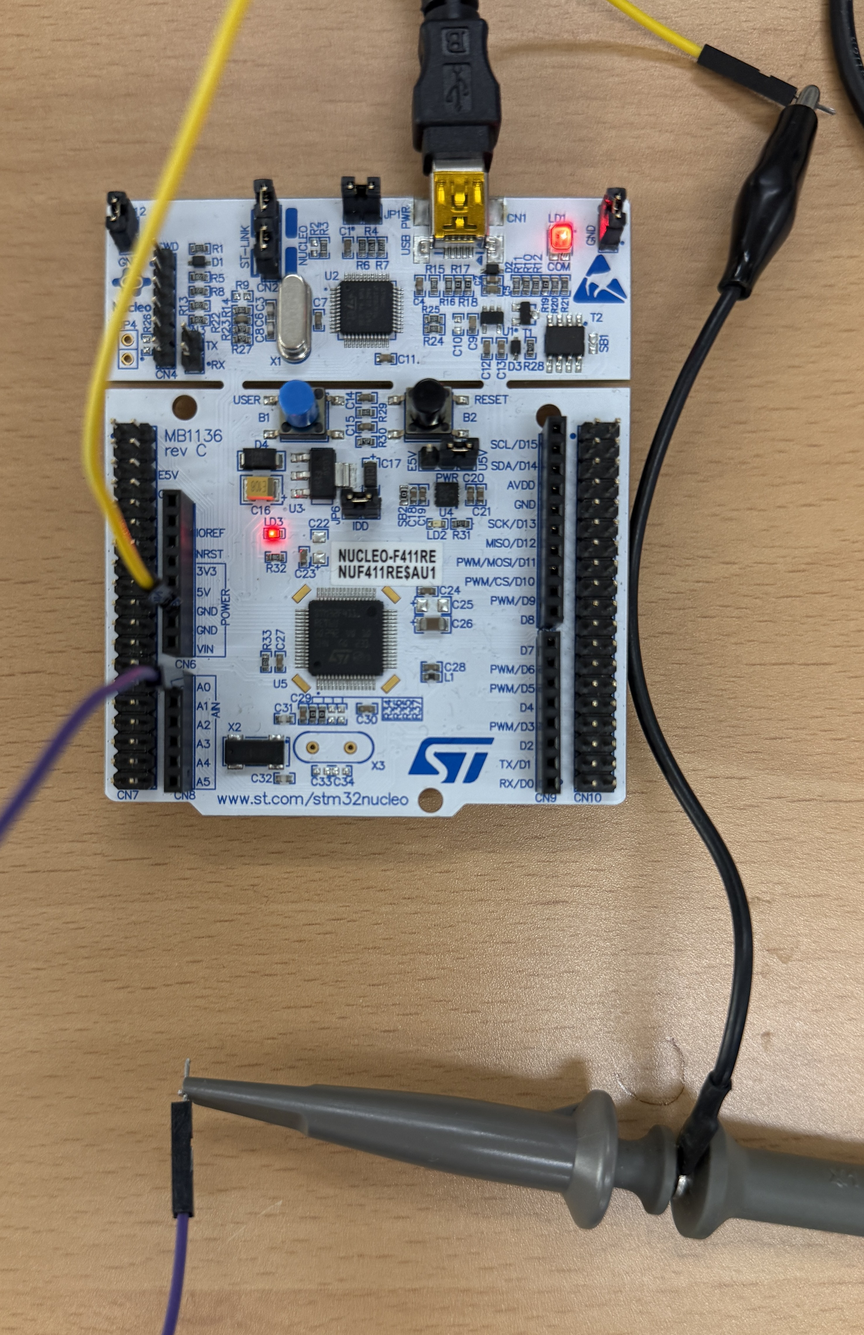
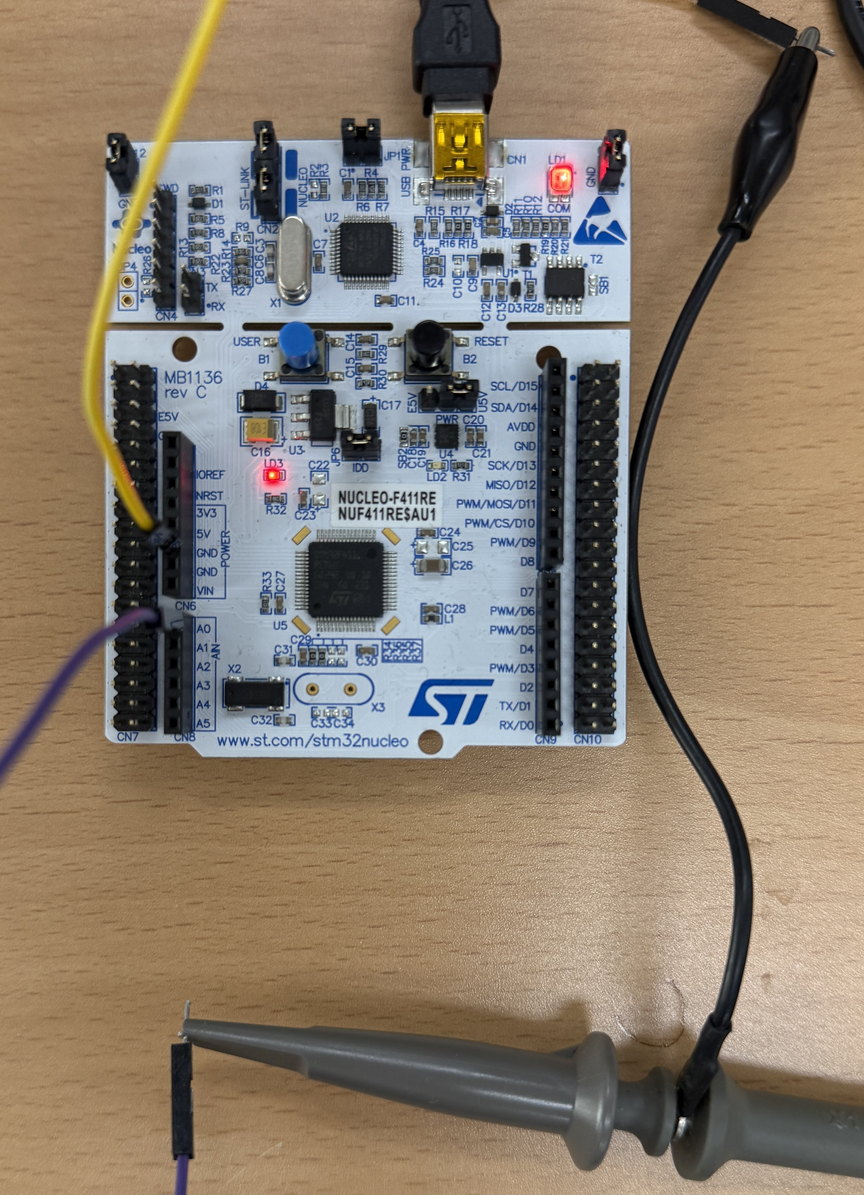
Use cropped wiring photos and shrink them in HC-SR04 doc

diff --git a/02_HC-SR04_DOC/README.md b/02_HC-SR04_DOC/README.md
@@ -121,7 +121,7 @@ void trig(void)
 
 ### 5.1 보드 연결
 
-<img src="img/H2_board_wiring.jpg" alt="보드 연결" width="80%">
+<img src="img/H2_board_wiring.jpg" alt="보드 연결" width="64%">
 
 | 선 | 보드 쪽 | 오실로스코프 쪽 |
 |---|---|---|
@@ -173,7 +173,7 @@ void trig(void)
 
 ### 6.2 센서 연결
 
-<img src="img/H5_sensor_wiring.jpg" alt="센서 연결" width="80%">
+<img src="img/H5_sensor_wiring.jpg" alt="센서 연결" width="64%">
 
 | 센서 핀 | 보드 쪽 |
 |---|---|
